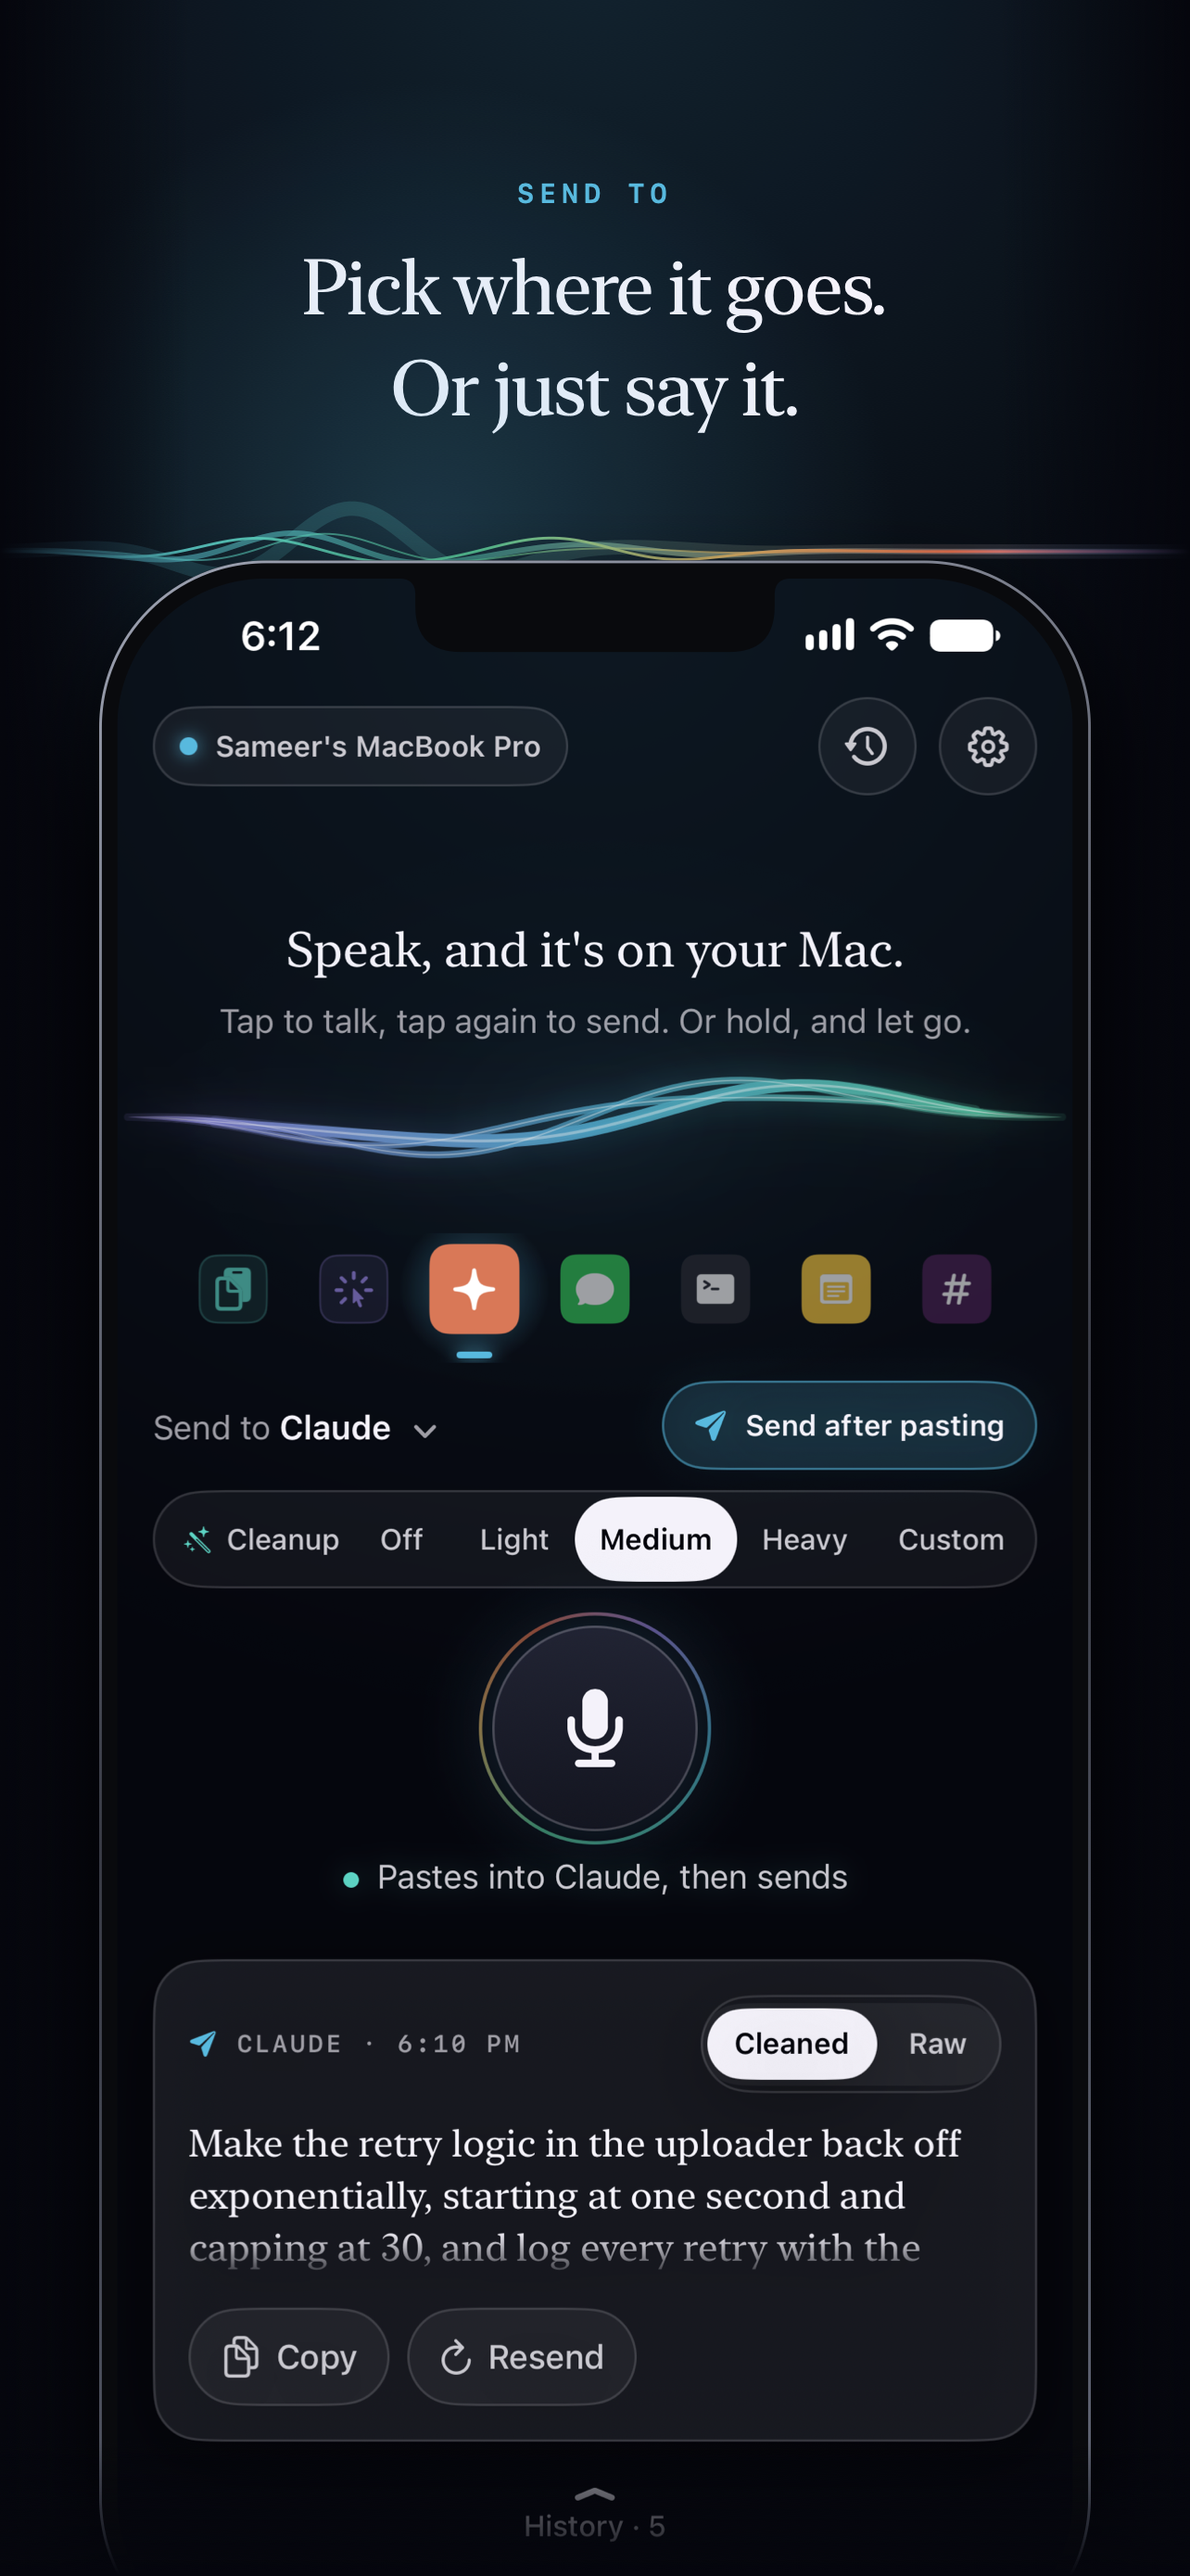
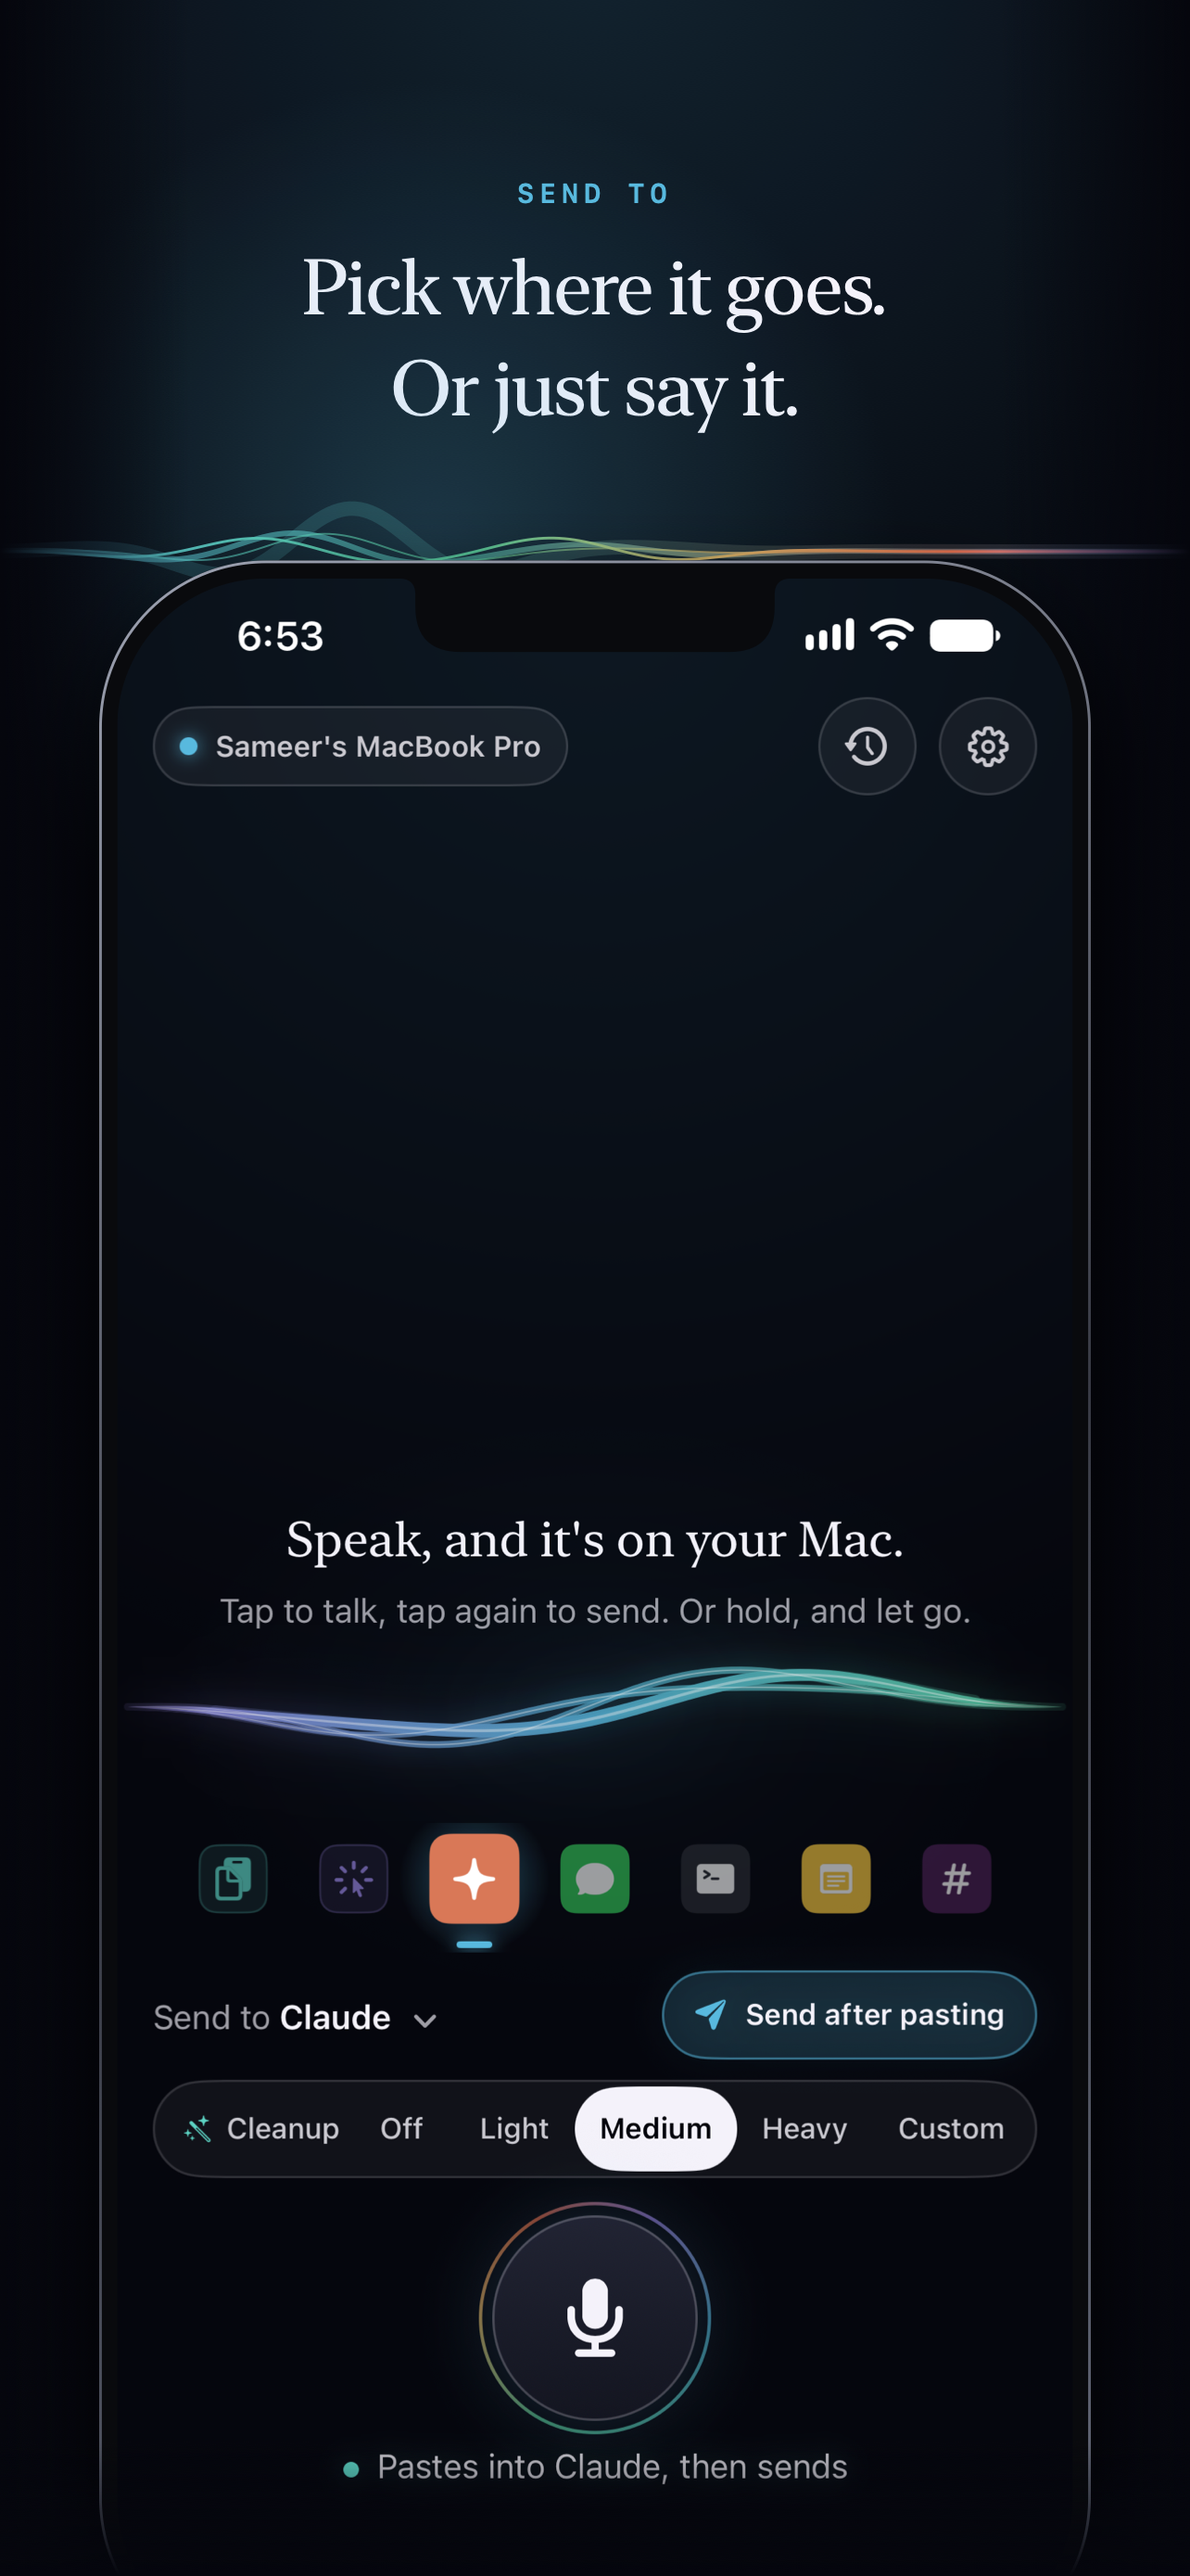
iPhone main screen: no last-dictation card (it's in History); the mic and status line sit fixed near the foot; while the mic is open everything above steps aside for the transcript (one quiet line of where it's going, the Thread just above the mic); tests and App Store screenshots updated

diff --git a/iOS/Macrophone/UI/MainView.swift b/iOS/Macrophone/UI/MainView.swift
@@ -1,14 +1,16 @@
 import MacrophoneKit
 import SwiftUI
 
-/// The mic screen: the words and the Filament, the quick controls, one big button, the status
-/// line, the last dictation.
+/// The mic screen. Two parts:
 ///
-/// **The mic never moves.** Everything under the stage sits in a fixed slot whose size comes from
-/// a hidden worst-case template (`FixedSlot`), never from what's showing: the quick controls, the
-/// status line and the last-dictation card keep their room in every state (idle, holding,
-/// recording, sending, delivered, queued, failed, no history, unpaired, a long or short target).
-/// Only the words area above flexes, and the live words grow into it without pushing anything.
+/// - **The bottom, fixed:** the mic and the status line, near the foot of the screen. Their slot
+///   never changes size, so **the mic never moves** — idle, held, recording, sending, delivered.
+/// - **Everything above, one area:** idle, it holds the top bar, the words and the Thread, and the
+///   quick controls (where it goes, send after pasting, cleanup). While the mic is open — and until
+///   the words have gone out — all of that steps aside and the area is the transcript: as much of
+///   what you're saying as fits, with the Thread breathing just above the mic.
+///
+/// The last dictation isn't on this screen any more (Oct 13 2026): it's in History.
 struct MainView: View {
     @EnvironmentObject var model: AppModel
     @ObservedObject var recorder: Recorder
@@ -35,9 +37,21 @@ struct MainView: View {
         GeometryReader { geo in
             ScrollView(.vertical) {
                 VStack(spacing: 0) {
-                    topBar
-                    stage
-                    quickControls
+                    ZStack {
+                        VStack(spacing: 0) {
+                            topBar
+                            stage
+                            quickControls
+                        }
+                        .opacity(showLiveWords ? 0 : 1)
+                        .allowsHitTesting(!showLiveWords)
+                        .accessibilityHidden(showLiveWords)
+                        if showLiveWords {
+                            transcriptArea.transition(.opacity)
+                        }
+                    }
+                    .frame(maxHeight: .infinity)
+                    .animation(Motion.pick(Motion.settle, reduce: reduceMotion), value: showLiveWords)
                     MicButton(recording: isRecording,
                               busy: false,
                               meter: recorder.meter,
@@ -45,7 +59,7 @@ struct MainView: View {
                               onUp: pressUp,
                               onAccessibilityToggle: { model.toggleRecording() })
                     statusSlot
-                    bottom
+                        .padding(.bottom, compact ? 6 : 18)
                 }
                 .frame(minHeight: geo.size.height)
             }
@@ -120,15 +134,8 @@ struct MainView: View {
             Color.clear
                 .frame(minHeight: compact ? 36 : 82, maxHeight: .infinity)
                 .overlay(alignment: .bottom) {
-                    ZStack(alignment: .bottom) {
-                        if showLiveWords {
-                            LiveWords(text: recorder.transcript, listening: isRecording)
-                                .transition(.opacity)
-                        } else {
-                            idleWords.transition(.opacity)
-                        }
-                    }
-                    .padding(.horizontal, 24)
+                    idleWords
+                        .padding(.horizontal, 24)
                 }
                 .clipped()
                 .padding(.top, 6)
@@ -138,14 +145,49 @@ struct MainView: View {
                 Filament(mode: filamentMode, meter: recorder.meter, height: filamentHeight)
                     .frame(height: filamentSlot, alignment: .bottom)
                 DeliveredCheck(visible: showCheck, color: checkColor)
-                if !typeSize.isAccessibilitySize { timer.frame(maxHeight: .infinity, alignment: .bottom) }
             }
             .frame(height: filamentSlot)
             .padding(.horizontal, -4)
-            if typeSize.isAccessibilitySize { timer }
         }
         .frame(maxHeight: .infinity)
-        .animation(Motion.pick(Motion.settle, reduce: reduceMotion), value: showLiveWords)
+    }
+
+    // MARK: While the mic is open: the transcript takes the whole area
+
+    /// Where this dictation is going, in one quiet line (the quick controls have stepped aside —
+    /// and saying an app's name first changes it as you speak).
+    private var destinationLine: some View {
+        let live = model.liveRoute(recorder.transcript)
+        let name = live.target.displayName
+        let where_ = live.byVoice ? "You said \(name)" : "To \(name)"
+        let parts = [where_, live.target.canSend && live.send ? "sends" : nil,
+                     model.effectiveCleanupLevel == .off ? "no cleanup" : "\(model.effectiveCleanupLevel.title) cleanup"].compactMap { $0 }
+        return Text(parts.joined(separator: " · ").uppercased())
+            .font(.mono(.caption2, weight: .medium))
+            .tracking(1.1)
+            .foregroundStyle(live.byVoice ? Light.ember : Ink.tertiary)
+            .lineLimit(1)
+            .minimumScaleFactor(0.7)
+            .frame(maxWidth: .infinity, alignment: .leading)
+            .accessibilityLabel(parts.joined(separator: ", "))
+    }
+
+    private var transcriptArea: some View {
+        VStack(spacing: 0) {
+            destinationLine
+                .padding(.horizontal, 24)
+                .padding(.top, 14)
+            LiveWords(text: recorder.transcript, listening: isRecording)
+                .padding(.horizontal, 24)
+                .padding(.top, 10)
+                .frame(maxHeight: .infinity)
+            ZStack {
+                Filament(mode: filamentMode, meter: recorder.meter, height: compact ? 48 : 64)
+                timer.frame(maxHeight: .infinity, alignment: .bottom)
+            }
+            .frame(height: compact ? 56 : 76)
+            .padding(.horizontal, -4)
+        }
     }
 
     /// Whatever fits of: the line and the hint; the line; the line smaller.
@@ -245,68 +287,6 @@ struct MainView: View {
             // Held past the threshold: hold-to-talk, so letting go sends.
             if held >= MicButton.holdThreshold { model.stopRecording() }
         }
-    }
-
-    // MARK: Bottom: last dictation and the way to history
-
-    private var cardTextHeight: CGFloat { typeSize.isAccessibilitySize ? 200 : (compact ? 44 : 72) }
-
-    private var bottom: some View {
-        VStack(spacing: 10) {
-            FixedSlot(alignment: .top) {
-                LastDictationCard.template(maxTextHeight: cardTextHeight)
-            } content: {
-                if let item = model.latest {
-                    LastDictationCard(item: item,
-                                      onCopy: { model.copy(item, cleaned: $0) },
-                                      onResend: { model.resend(item) },
-                                      maxTextHeight: cardTextHeight,
-                                      canResend: model.isPaired)
-                        .id(item.id)
-                        .transition(reduceMotion ? .opacity : .asymmetric(insertion: .move(edge: .bottom).combined(with: .opacity), removal: .opacity))
-                        // Recording: the card keeps its room and fades, so nothing below the mic moves.
-                        .opacity(showLiveWords ? 0.22 : 1)
-                        .allowsHitTesting(!showLiveWords)
-                } else {
-                    Text("Your last dictation shows here, ready to copy or send again.")
-                        .font(.footnote)
-                        .foregroundStyle(Ink.tertiary)
-                        .multilineTextAlignment(.center)
-                        .frame(maxWidth: .infinity)
-                        .padding(.top, 24)
-                        .opacity(showLiveWords ? 0 : 1)
-                }
-            }
-            if !compact {
-                Button { model.sheet = .history } label: {
-                    VStack(spacing: 2) {
-                        Image(systemName: "chevron.compact.up").font(.title3.weight(.semibold))
-                        Text(model.historyItems.isEmpty ? "History" : "History · \(model.historyItems.count)")
-                            .font(.footnote.weight(.medium))
-                    }
-                    .foregroundStyle(Ink.tertiary)
-                    .frame(maxWidth: .infinity, minHeight: 44)
-                    .contentShape(Rectangle())
-                }
-                .buttonStyle(.plain)
-                .opacity(isRecording ? 0 : 1)
-                .allowsHitTesting(!isRecording)
-                .accessibilityLabel("Show history")
-                .dynamicTypeSize(...DynamicTypeSize.accessibility2)
-            }
-        }
-        .padding(.horizontal, 16)
-        .padding(.top, 8)
-        .padding(.bottom, 4)
-        .animation(Motion.pick(Motion.arrive, reduce: reduceMotion), value: model.latest?.id)
-        .animation(Motion.pick(Motion.settle, reduce: reduceMotion), value: showLiveWords)
-        .simultaneousGesture(
-            DragGesture(minimumDistance: 24).onEnded { v in
-                if v.translation.height < -50, abs(v.translation.width) < abs(v.translation.height), !isRecording {
-                    model.sheet = .history
-                }
-            }
-        )
     }
 
     // MARK: Filament state
@@ -469,7 +449,6 @@ struct IconButtonStyle: ButtonStyle {
             .contentShape(Circle())
     }
 }
-
 /// In the quick controls' first line, after the first dictations made without a Mac: the free
 /// Mac app, one tap to send yourself the link. Closed for good with ×; gone once a Mac is paired.
 struct MacAppNudge: View {

diff --git a/iOS/MacrophoneUITests/MacrophoneUITests.swift b/iOS/MacrophoneUITests/MacrophoneUITests.swift
@@ -50,7 +50,7 @@ final class MacrophoneUITests: XCTestCase {
         XCTAssertTrue(delivered(app))
     }
 
-    /// The mic button sits in one place: idle or recording, with or without a last dictation,
+    /// The mic button sits in one place: idle or recording, with or without history,
     /// paired or not, whatever the quick controls and the status line say. A button that slides
     /// out from under a held finger is the worst feeling.
     func testMicButtonNeverMoves() {
@@ -71,19 +71,9 @@ final class MacrophoneUITests: XCTestCase {
         app.buttons["Start dictation"].tap()
         sleep(3)
         same(idle, frame(app, "Stop and send"), "recording (an app said first) keeps the button in place")
-        // Changing the controls mid-recording doesn't move it either: Send after pasting, cleanup
-        // (Custom, and Custom again — which says to edit after, rather than covering the mic), a place.
-        app.descendants(matching: .any)["send-toggle"].tap()
-        same(idle, frame(app, "Stop and send"), "a send change while recording keeps the button in place")
-        app.buttons["cleanup-custom"].tap()
-        same(idle, frame(app, "Stop and send"), "Custom picked while recording keeps the button in place")
-        app.buttons["cleanup-custom"].tap()
-        XCTAssertFalse(app.navigationBars["Custom Cleanup"].waitForExistence(timeout: 1), "the editor waits while recording")
-        same(idle, frame(app, "Stop and send"), "Custom tapped again while recording keeps the button in place")
-        app.buttons["cleanup-heavy"].tap()
-        same(idle, frame(app, "Stop and send"), "a cleanup change while recording keeps the button in place")
-        app.buttons["Terminal"].tap()
-        same(idle, frame(app, "Stop and send"), "a place picked while recording keeps the button in place")
+        // While the mic is open the controls step aside: the transcript has the whole area.
+        XCTAssertFalse(app.descendants(matching: .any)["send-toggle"].isHittable, "the controls are hidden while recording")
+        XCTAssertFalse(app.buttons["History"].isHittable, "the top bar is hidden while recording")
         app.buttons["Stop and send"].tap()
         same(idle, frame(app, "Start dictation"), "sending keeps the button in place")
         sleep(4)
